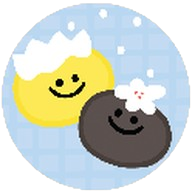
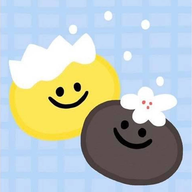
feat: 加入萬丹、公正、岡山壽天三間公托；Word 頁首徽章改成每間各用自己的

diff --git a/src/export/docxShared.js b/src/export/docxShared.js
@@ -22,14 +22,13 @@ export const PAGE_SIZE = { width: 11906, height: 16838 };
 export const HEADER_ICON_EMU = { width: 439420, height: 448310 };
 export const EMU_PER_PIXEL = 9525; // docx's ImageRun transformation takes pixels and multiplies by this.
 
-// word/media/image1.png extracted from the real C表 sample: a 122x124 PNG badge shown beside every
-// header title in this app's exported documents. Inlined as base64 so the built single-file app
-// stays self-contained.
-// The value below is a placeholder for THIS PLAN DOCUMENT ONLY, to avoid repeating a multi-KB
-// base64 string twice in this file. Do not type this placeholder into the real source file —
-// see Step 2, which copies the real value verbatim from the existing docxExport.js.
-export const HEADER_ICON_BASE64 =
+// The round badge shown beside every header title in this app's exported documents, inlined as
+// base64 so the built single-file app stays self-contained. scripts/build-web.mjs passes each
+// centre's assets/centers/<id>/word-badge.png as __CENTER_BADGE__; without it (offline build,
+// tests) it is 育英's: word/media/image1.png from the real C表 sample, a 122x124 PNG.
+const YUYING_BADGE_BASE64 =
[1 lines of base64/hex data omitted]
+export const HEADER_ICON_BASE64 = typeof __CENTER_BADGE__ === 'undefined' ? YUYING_BADGE_BASE64 : __CENTER_BADGE__;
 
 function runFont() {
   return { ascii: FONT, eastAsia: FONT, hAnsi: FONT, cs: FONT };

diff --git a/src/centers.js b/src/centers.js
@@ -1,7 +1,8 @@
 // One entry per 公托 sharing this GitHub Pages site — each gets its own folder
 // (/Childcare-Center/<id>/), title, logo (assets/centers/<id>/) and storage. See
 // docs/superpowers/specs/2026-10-29-multi-center-design.md. A new centre needs only a new entry
-// here plus its two square logos; its dbName/storagePrefix are `c-form-<id>-db`/`c-form-<id>`.
+// here plus assets/centers/<id>/ (square icon-192.png/icon-512.png, round word-badge.png with
+// transparent corners for the Word headers); its dbName/storagePrefix are `c-form-<id>-db`/`c-form-<id>`.
 export const CENTERS = [
   {
     id: 'yuying',
@@ -14,6 +15,36 @@ export const CENTERS = [
     // 育英 predates this file: its names are the old ones, so the move keeps its data and sign-in.
     dbName: 'c-form-db',
     storagePrefix: 'c-form',
+  },
+  {
+    id: 'wandan',
+    title: '屏東縣萬丹鄉公托填表系統',
+    shortName: '萬丹公托填表',
+    institution: '屏東縣萬丹鄉公設民營托嬰中心',
+    monthlyPlanInstitution: '屏東縣萬丹鄉公設民營托嬰中心-屏東縣政府委託中華頭心手希望教育協會辦理',
+    driveFolderName: '屏東縣萬丹鄉公托填表系統',
+    dbName: 'c-form-wandan-db',
+    storagePrefix: 'c-form-wandan',
+  },
+  {
+    id: 'gongzheng',
+    title: '屏東市公正公托填表系統',
+    shortName: '公正公托填表',
+    institution: '屏東市公正公設民營托嬰中心',
+    monthlyPlanInstitution: '屏東市公正公設民營托嬰中心-屏東縣政府委託中華頭心手希望教育協會辦理',
+    driveFolderName: '屏東市公正公托填表系統',
+    dbName: 'c-form-gongzheng-db',
+    storagePrefix: 'c-form-gongzheng',
+  },
+  {
+    id: 'shoutian',
+    title: '高雄市岡山壽天公托填表系統',
+    shortName: '壽天公托填表',
+    institution: '高雄市岡山壽天公共托嬰中心',
+    monthlyPlanInstitution: '高雄市政府社會局委託高雄市嬰幼兒托育協會辦理高雄市岡山壽天公共托嬰中心',
+    driveFolderName: '高雄市岡山壽天公托填表系統',
+    dbName: 'c-form-shoutian-db',
+    storagePrefix: 'c-form-shoutian',
   },
 ];
 

diff --git a/tests/centers.test.js b/tests/centers.test.js
@@ -1,10 +1,11 @@
 import { describe, it, expect } from 'vitest';
-import { existsSync } from 'node:fs';
+import { existsSync, readFileSync } from 'node:fs';
 import { CENTERS, CENTER } from '../src/centers.js';
 import { DB_NAME } from '../src/storage/dbCore.js';
 import { SYNC_MODE_KEY, SYNC_NAME_KEY, RELOAD_TOKEN_KEY } from '../src/sync/googleAuth.js';
 import { SYNC_FOLDER_KEY } from '../src/storage/syncStateDb.js';
 import { FOLDER_NAME } from '../src/sync/driveClient.js';
+import { HEADER_ICON_BASE64 } from '../src/export/docxShared.js';
 
 describe('centers', () => {
   it('defaults to 育英 when no build passes __CENTER_ID__ (offline build, tests)', () => {
@@ -35,6 +36,7 @@ describe('centers', () => {
       }
       expect(existsSync(`assets/centers/${c.id}/icon-192.png`)).toBe(true);
       expect(existsSync(`assets/centers/${c.id}/icon-512.png`)).toBe(true);
+      expect(existsSync(`assets/centers/${c.id}/word-badge.png`)).toBe(true);
     }
   });
 });
@@ -47,5 +49,11 @@ describe('storage names read from CENTER', () => {
     expect(RELOAD_TOKEN_KEY).toBe('c-form-reload-token');
     expect(SYNC_FOLDER_KEY).toBe('c-form-sync-folder-id');
     expect(FOLDER_NAME).toBe('育英公托填表系統');
+  });
+});
+
+describe('Word header badge', () => {
+  it("is 育英's original round badge when no build passes one (offline build, tests)", () => {
+    expect(readFileSync('assets/centers/yuying/word-badge.png').toString('base64')).toBe(HEADER_ICON_BASE64);
   });
 });

diff --git a/tests/buildWeb.test.js b/tests/buildWeb.test.js
@@ -20,6 +20,7 @@ describe('build-web', () => {
       expect(manifest.short_name).toBe(c.shortName);
       expect(manifest.scope).toBe('./');
       expect(existsSync(`site/${c.id}/icons/icon-512.png`)).toBe(true);
+      expect(html).toContain(readFileSync(`assets/centers/${c.id}/word-badge.png`).toString('base64'));
     }
   });
 

diff --git a/docs/superpowers/specs/2026-10-29-multi-center-design.md b/docs/superpowers/specs/2026-10-29-multi-center-design.md
@@ -96,6 +96,10 @@ export const CENTER = CENTERS.find(c => c.id === (typeof __CENTER_ID__ === 'unde
 
 ## 之後新增一間公托
 1. `src/centers.js` 加一組設定。
-2. `assets/centers/<id>/` 放兩張正方形 logo（192、512）。
+2. `assets/centers/<id>/` 放三張圖：方形 `icon-192.png`、`icon-512.png`（填表系統頂端與主畫面 App），以及圓形 `word-badge.png`（四角透明，Word 匯出頁首用；建置時以 `__CENTER_BADGE__` 傳入 `src/export/docxShared.js`）。原始圖只有方形時，從中間切正方形再切圓即可。
 3. 推上 `main`，網址就是 `/Childcare-Center/<id>/`。
-4. Word 匯出的頁首徽章（`src/export/docxShared.js` 的 `HEADER_ICON_BASE64`）目前仍是育英寫死的圖；第一間別的公托上線前，必須先改成每間公托各用自己的。
+
+## 2026-10-29 補充：第一批三間
+- 萬丹 `wandan`、公正 `gongzheng`、岡山壽天 `shoutian`。主畫面名稱取短名（「壽天公托填表」，避免 iPhone 截字）。
+- 月計畫那行：萬丹、公正比照育英（機構名稱＋「-屏東縣政府委託中華頭心手希望教育協會辦理」）；壽天是「高雄市政府社會局委託高雄市嬰幼兒托育協會辦理高雄市岡山壽天公共托嬰中心」。
+- 圖：育英 App 圖示改成方形，Word 徽章維持原本的圓形圖（逐位元相同）；萬丹的 Word 徽章把圖縮小一點再切圓，以免小櫻桃被切到；公正還沒有 logo，先用建築照片。
